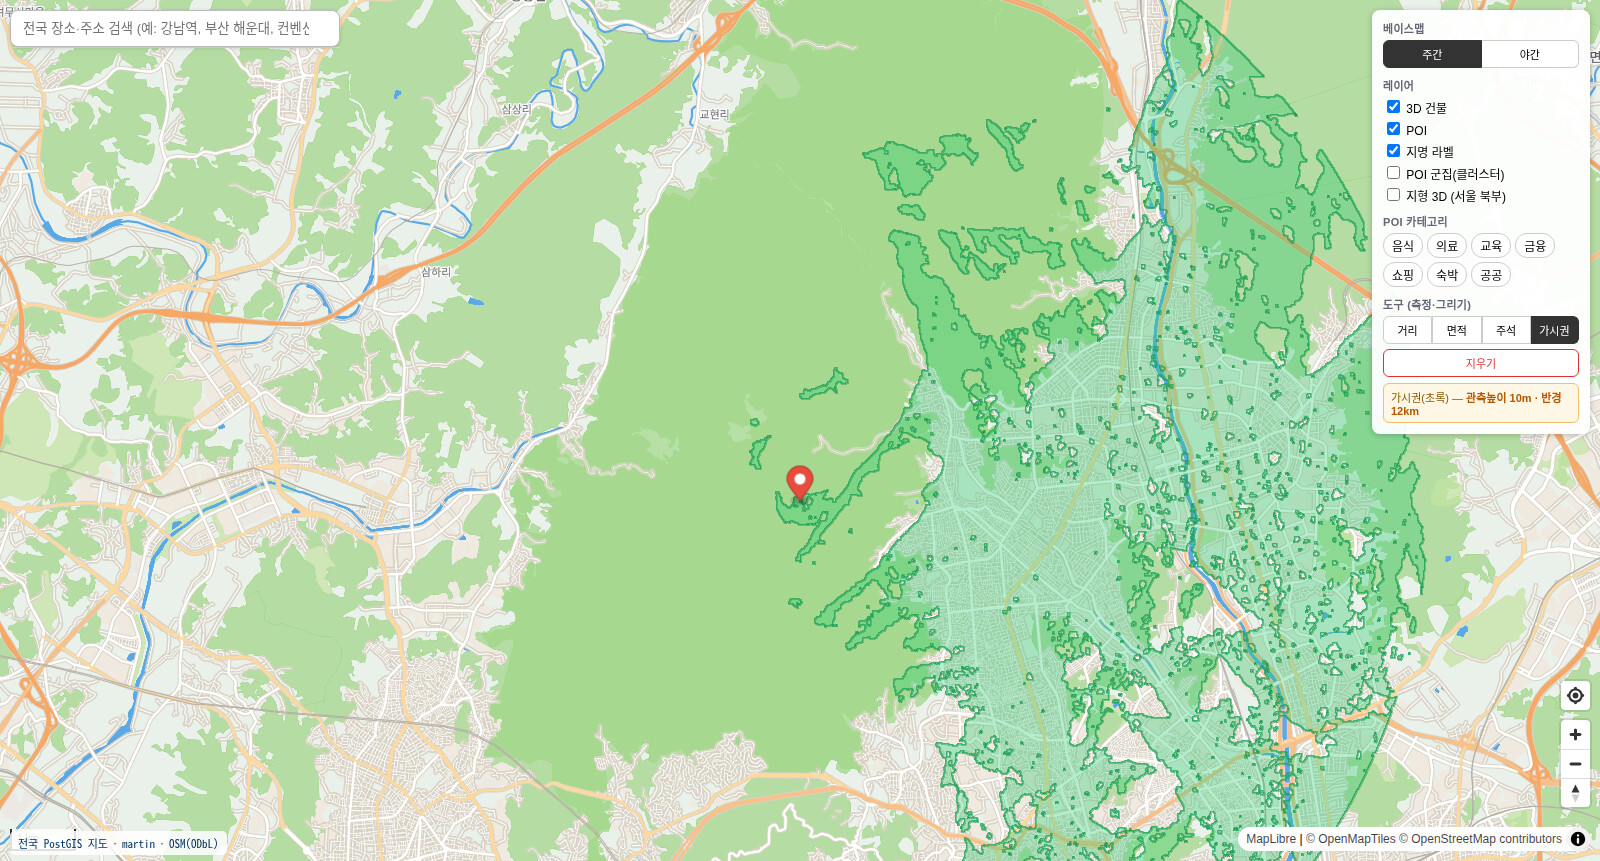
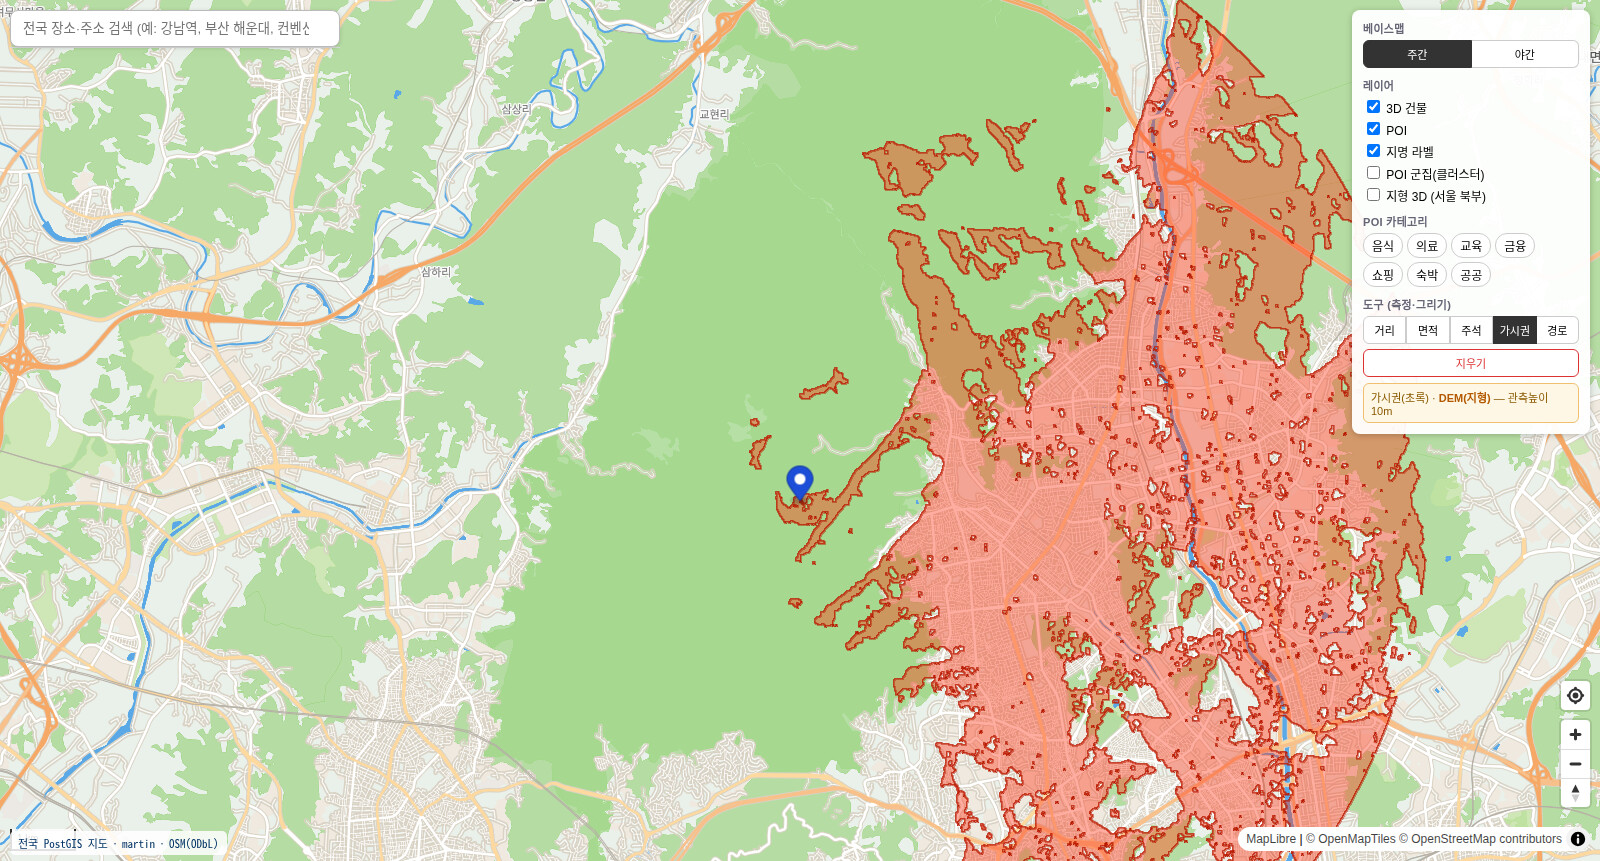
fix: 가시권 색을 베이스맵 녹지와 겹치지 않는 고대비(빨강)로 변경
녹색 가시권이 베이스맵 숲/녹지와 색이 겹쳐 분간이 안 되던 문제 수정.
가시영역=빨강, 관측점 마커=파랑. 가시권 스크린샷 2컷 교체
(서울 지형: 능선 차폐 / 광주 DSM: 건물 차폐로 도로만 가시).
계산은 정상(가시면적 수치 검증 완료) — 시각화 개선.

Changed region(s): [[0.4688, 0.0, 1.0, 1.0], [0.5, 0.4228, 0.5312, 0.4832], [0.9062, 0.0604, 0.9375, 0.0906]]

diff --git a/viewer/address_demo.html b/viewer/address_demo.html
@@ -305,8 +305,8 @@ map.on("load", () => {
   // ── 가시권 분석 (서버 gdal_viewshed) ──
   let vsMarker = null;
   map.addSource("vs", { type:"geojson", data:{type:"FeatureCollection",features:[]} });
-  map.addLayer({ id:"vs-fill", type:"fill", source:"vs", paint:{ "fill-color":"#2ecc71", "fill-opacity":0.35 } });
-  map.addLayer({ id:"vs-line", type:"line", source:"vs", paint:{ "line-color":"#1e9e54", "line-width":1.2 } });
+  map.addLayer({ id:"vs-fill", type:"fill", source:"vs", paint:{ "fill-color":"#ff3b1d", "fill-opacity":0.42 } });
+  map.addLayer({ id:"vs-line", type:"line", source:"vs", paint:{ "line-color":"#b81800", "line-width":1.2 } });
   async function runViewshed(lng, lat) {
     measureEl.style.display="block"; measureEl.innerHTML="가시권 계산 중…";
     try {
@@ -314,7 +314,7 @@ map.on("load", () => {
       if (gj.error) { measureEl.textContent = gj.msg || ("오류: "+gj.error); map.getSource("vs").setData({type:"FeatureCollection",features:[]}); if(vsMarker){vsMarker.remove();vsMarker=null;} return; }
       map.getSource("vs").setData(gj);
       if (vsMarker) vsMarker.remove();
-      vsMarker = new maplibregl.Marker({color:"#e74c3c"}).setLngLat([lng,lat]).addTo(map);
+      vsMarker = new maplibregl.Marker({color:"#1d4ed8"}).setLngLat([lng,lat]).addTo(map);
       measureEl.innerHTML = `가시권(초록)${gj.mode?" · <b>"+gj.mode+"</b>":""} — 관측높이 10m`;
     } catch(_) { measureEl.textContent = "가시권 요청 실패"; }
   }

diff --git a/README.md b/README.md
@@ -29,7 +29,7 @@
 |---|---|
 | ![지형3D](docs/screenshots/feat_terrain.jpg) | ![가시권](docs/screenshots/feat_viewshed.jpg) |
 
-가시권 — LiDAR DSM 건물 차폐 (광주): 초록 가시영역이 건물 사이 가로만 따라 흐름
+가시권 — LiDAR DSM 건물 차폐 (광주): 관측점에서 보이는 영역(빨강)이 도로를 따라 뻗고, 건물 뒤는 비가시
 
 ![가시권DSM](docs/screenshots/feat_viewshed_dsm.jpg)
 
